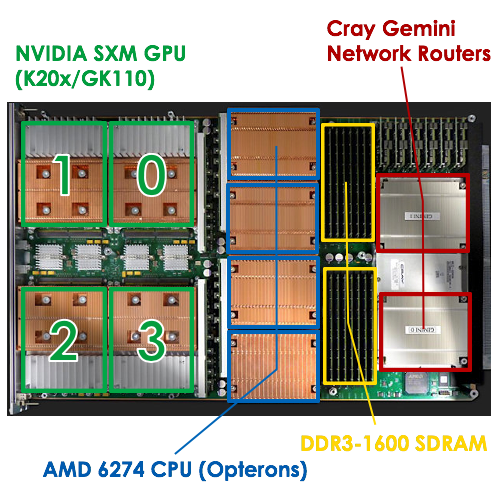
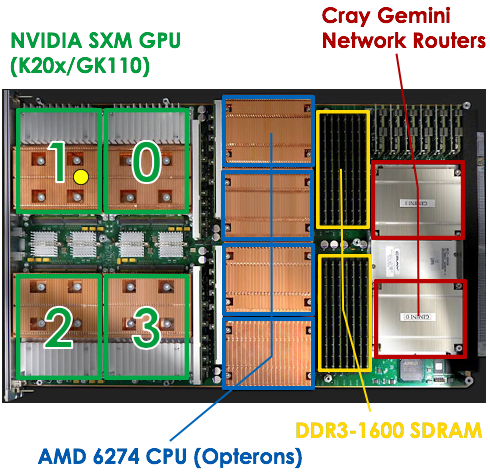
fig 4 and \rev{} color command

diff --git a/dataprep.tex b/dataprep.tex
@@ -37,7 +37,7 @@ record for each contiguously observed SN-Location
 combination. Resulting GPU data records are of the form shown in
 Fig.~\ref{fig:dataraw},
 \begin{figure}[tb]
-{\notsotiny\bf
+{\notsotiny
 \begin{verbatim}
 0323812007945 | c17-4c1s3n1 | 01/10/2013 02:54:45 | 02/02/2013 11:32:29
  | c13-1c1s3n3 | 01/21/2014 21:10:42 | 08/01/2017 02:15:02
@@ -55,12 +55,13 @@ Fig.~\ref{fig:dataraw},
   processed further in our analysis.}
 \label{fig:dataraw}
 \end{figure}
-where records for three are shown. Each record starts
-with a serial number and locations are coded with {\tt c{\it
-    col-row}c{\it cage}s{\it slot}n{\it node}}. The location
-references are cabinet column (0-24), row (0-7), cage (0-2), slot
-(0-7), and node (0-3) with respect to the layout shown in
-Figure~\ref{fig:layout}.
+where records for three are shown. Each record starts with a serial
+number and locations are coded with {\tt c{\it col-row}c{\it
+    cage}s{\it slot}n{\it node}}. The location references are cabinet
+column (0-24), row (0-7), cage (0-2), slot (0-7), and node (0-3) with
+respect to the layout shown in Figure~\ref{fig:layout}. \rev{For
+  example, we mark location {\tt c17-4c1s3n1} with a yellow dot in
+  each view of the Figure.}
 \begin{figure}
   \centering
   \includegraphics[width=\columnwidth]{figs/TitanCabinet.png}

diff --git a/main.tex b/main.tex
@@ -13,9 +13,6 @@
 \usepackage[section]{placeins}
 \def\BibTeX{{\rm B\kern-.05em{\sc i\kern-.025em b}\kern-.08em
     T\kern-.1667em\lower.7ex\hbox{E}\kern-.125emX}}
-\makeatletter
-\newcommand\notsotiny{\@setfontsize\notsotiny\@vipt\@viipt}
-\makeatother
 %\usepackage[pdftex,
 %            bookmarksopen=true,
 %            colorlinks,
@@ -30,12 +27,18 @@
 %\newcommand{\doubleblind}[2]{#1} % Use this command for final submission
 \newcommand{\doubleblind}[2]{#2} % Use this command for review submission
 
+\newcommand{\rev}[1]{{\color{blue} #1}} % color changes for reviewers
+%\newcommand{\rev}[1]{#1} % remove color changes for reviewers
+
 %%%%%%%%%%%%%%%%%
 % Custom Commands
 %%%%%%%%%%%%%%%%%
 \newcommand{\fix}[1]{\textcolor{red}{#1}}
 \newcommand{\pkg}[1]{{\tt #1}}
 \newcommand{\indf}[1]{$\rightarrow$~\textcolor{blue}{#1}}
+\makeatletter
+\newcommand\notsotiny{\@setfontsize\notsotiny\@vipt\@viipt}
+\makeatother
 
 %%%%%%%%%%%%%%%%%%%%%%%%%%%%%%%%%%%%%%%%%%%%%%%%%%%%%%%%%%%%%%%%%%%%%%%%%%%%%%%%
 % Document Body

diff --git a/reviews/pap537.md b/reviews/pap537.md
@@ -240,7 +240,7 @@ clarifications. See suggestions below:
   component in the different sections (columns, rows, etc.) to the
   corresponding images. That would help make the connection with the 4
   images and raw data described in that section.
-  * *George: ?*
+  * *George: Done*
 - Figure 5: Despite the fact that data are random, I would order the
   Y-axis based on location (c0-c24)
 - Figures 5 and 6: Since the article has room, I would expand a little
